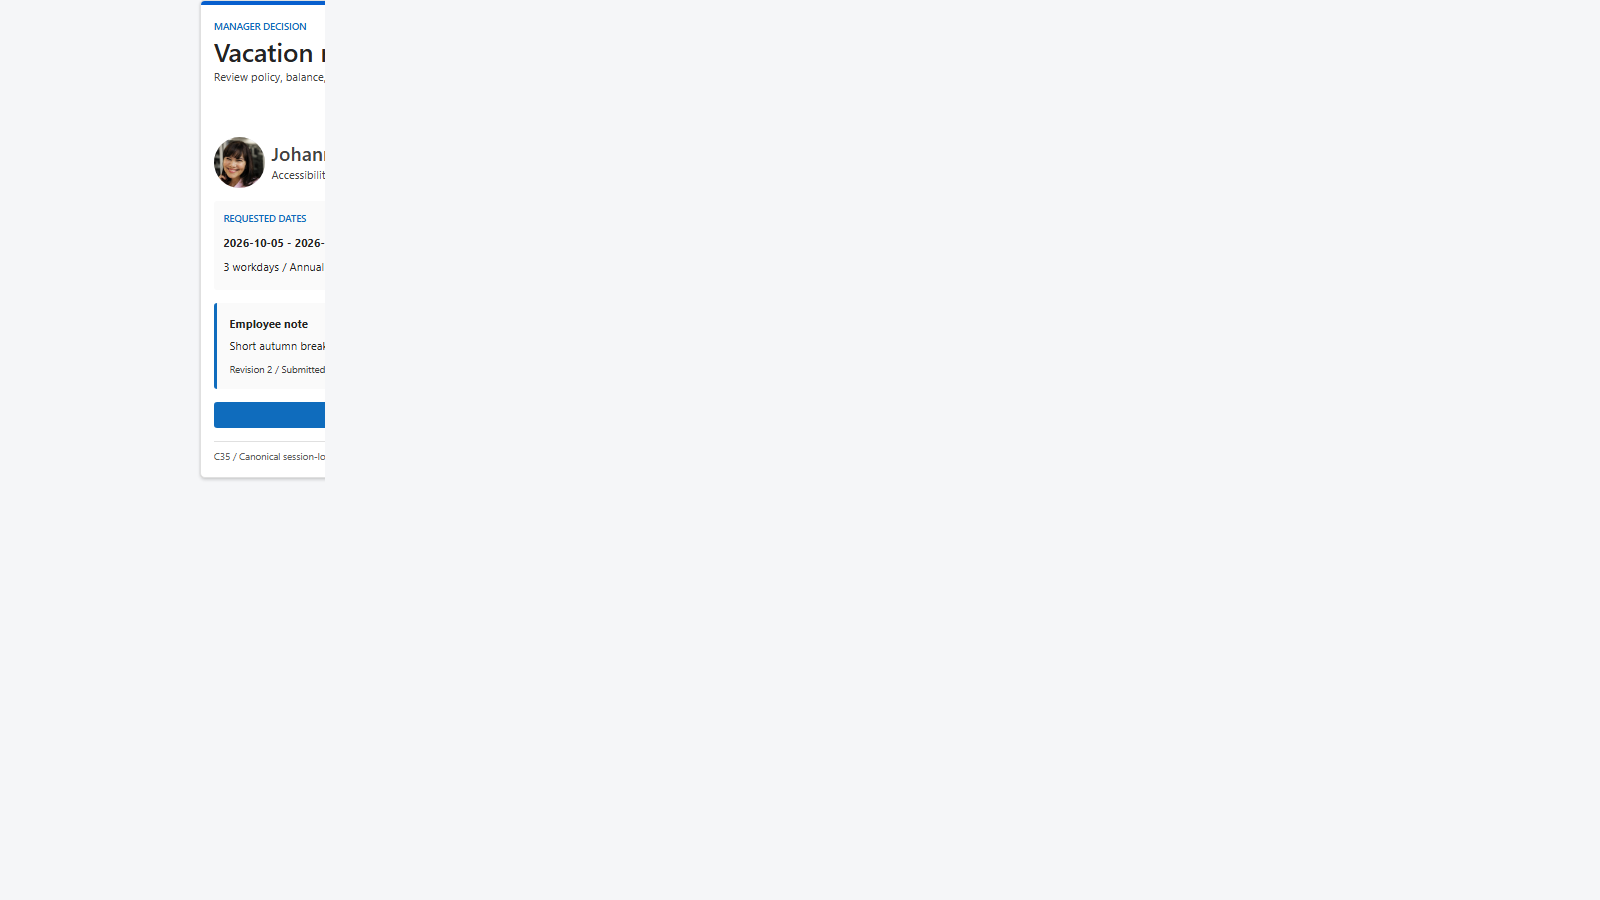
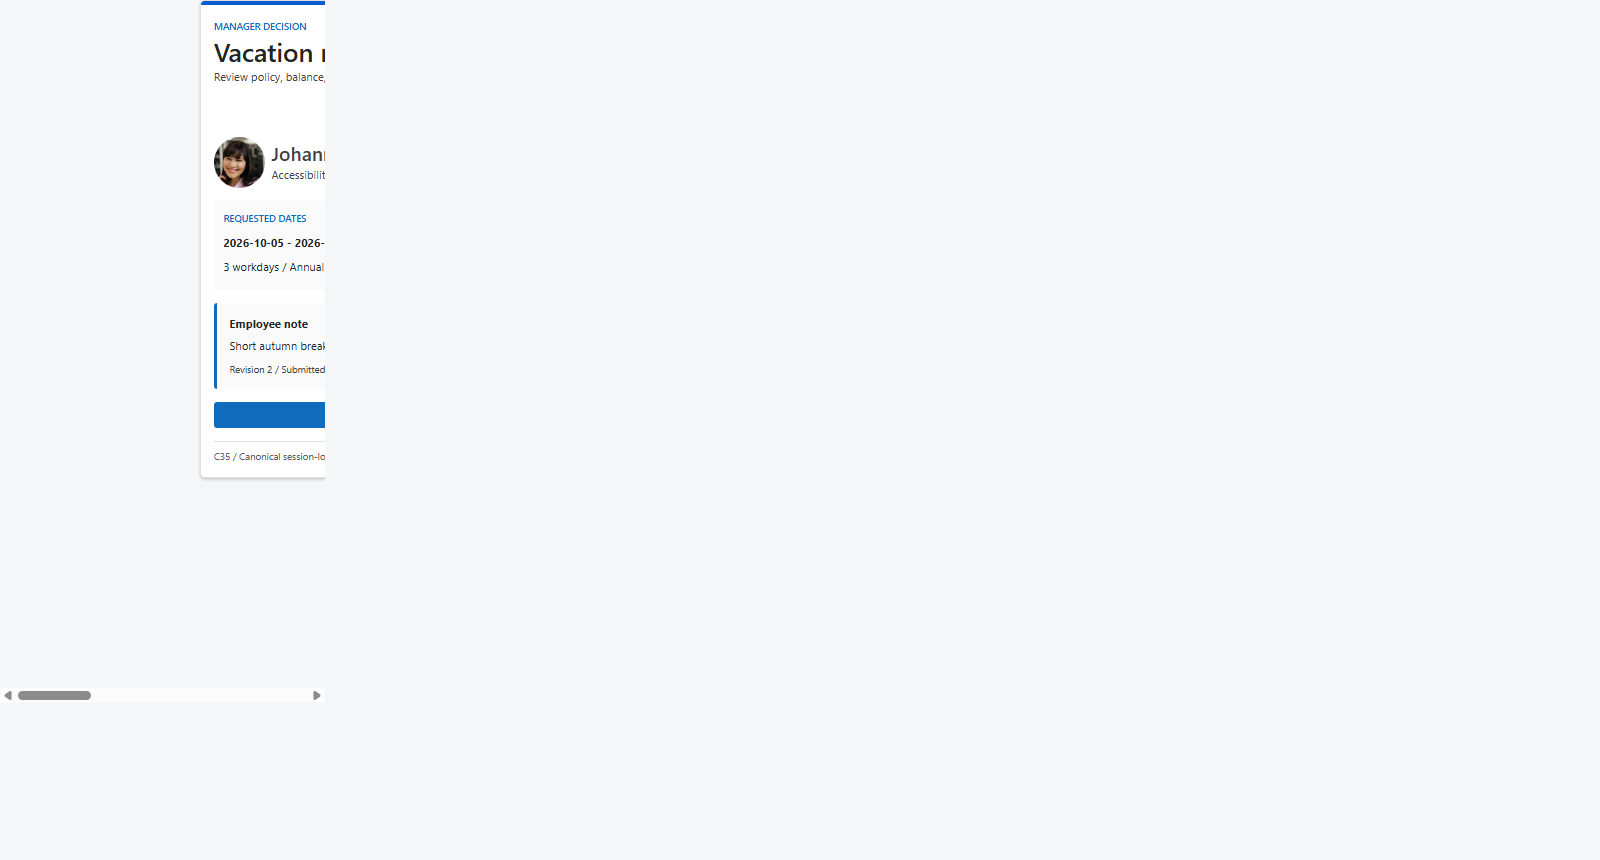
Recapture complete Zava One publication screenshots

Changed region(s): [[0.125, 0.1512, 0.2188, 0.5442], [0.125, 0.0, 0.2188, 0.0907], [0.0, 0.786, 0.0625, 0.8163]]

diff --git a/samples/zava-one-hub/assets/publication-screenshots.md b/samples/zava-one-hub/assets/publication-screenshots.md
@@ -1,28 +1,31 @@
 # Publication screenshot audit
 
-All publication images are current 1600x900 light-theme captures from the local UX review harness.
-They complement the 39-state engineering gallery under `ux-review/evidence/all-experiences`.
+All publication images are current light-theme, complete-content captures from the local UX review
+harness. Focused experiences end at their rendered footer, and workspace captures expand the internal
+scroll region to include every module. They complement the 39-state engineering gallery under
+`ux-review/evidence/all-experiences`.
 
 | Order | File | State proved |
 | ---: | --- | --- |
-| 100 | [preview.png](./preview.png) | Combined workspace, Company tab, desktop first viewport |
-| 101 | [screenshot-personal.png](./screenshot-personal.png) | Combined workspace, Personal tab, desktop first viewport |
-| 102 | [screenshot-company-news.png](./screenshot-company-news.png) | Editorial Company News composition and next-section hint |
-| 103 | [screenshot-recognition-compose.png](./screenshot-recognition-compose.png) | Praise recipient, message, value, and audience composer |
-| 104 | [screenshot-sales-performance.png](./screenshot-sales-performance.png) | EMEA chart, target variance, and exact-value table |
-| 105 | [screenshot-office-map.png](./screenshot-office-map.png) | Global office map, equivalent list, and selected detail |
-| 106 | [screenshot-vacation-approvals.png](./screenshot-vacation-approvals.png) | Four-request reset baseline before a decision |
-| 107 | [screenshot-vacation-detail.png](./screenshot-vacation-detail.png) | Dates, balance impact, coverage, and employee note |
-| 108 | [screenshot-vacation-decision.png](./screenshot-vacation-decision.png) | Explicit decision review before confirmation |
-| 109 | [screenshot-vacation-receipt.png](./screenshot-vacation-receipt.png) | Session-only simulated approval receipt |
-| 110 | [screenshot-vacation-updated-list.png](./screenshot-vacation-updated-list.png) | Three pending and three processed after approval |
-| 111 | [screenshot-capability-explorer.png](./screenshot-capability-explorer.png) | Searchable 35-capability explorer and safe prompt preview |
+| 100 | [preview.png](./preview.png) | Searchable 35-capability explorer and safe prompt preview |
+| 101 | [screenshot-company-workspace.png](./screenshot-company-workspace.png) | Complete Combined workspace, Company tab, all modules |
+| 102 | [screenshot-personal.png](./screenshot-personal.png) | Complete Combined workspace, Personal tab, all modules |
+| 103 | [screenshot-company-news.png](./screenshot-company-news.png) | Complete Editorial Company News composition |
+| 104 | [screenshot-recognition-compose.png](./screenshot-recognition-compose.png) | Praise recipient, message, value, and audience composer |
+| 105 | [screenshot-sales-performance.png](./screenshot-sales-performance.png) | EMEA chart, target variance, and exact-value table |
+| 106 | [screenshot-office-map.png](./screenshot-office-map.png) | Global office map, equivalent list, and selected detail |
+| 107 | [screenshot-vacation-approvals.png](./screenshot-vacation-approvals.png) | Four-request reset baseline before a decision |
+| 108 | [screenshot-vacation-detail.png](./screenshot-vacation-detail.png) | Dates, balance impact, coverage, and employee note |
+| 109 | [screenshot-vacation-decision.png](./screenshot-vacation-decision.png) | Explicit decision review before confirmation |
+| 110 | [screenshot-vacation-receipt.png](./screenshot-vacation-receipt.png) | Session-only simulated approval receipt |
+| 111 | [screenshot-vacation-updated-list.png](./screenshot-vacation-updated-list.png) | Three pending and three processed after approval |
 
 ## Review result
 
 - No image contains a stale layout or placeholder scaffold.
-- Primary controls and labels fit inside every frame.
+- Primary controls, labels, and source footers fit inside every frame.
 - Workspace columns are not horizontally clipped.
+- Complete Company and Personal workspace captures include every configured module.
 - C35 workflow states are independently readable and ordered.
 - Images show fixture labels where the experience renders them.
 

diff --git a/samples/zava-one-hub/README.md b/samples/zava-one-hub/README.md
@@ -26,7 +26,7 @@ The same shared React capability powers:
 - the exact route inside Copilot full screen; and
 - one of three composed SharePoint/Teams workspace experiences.
 
-![Zava One Company workspace](./assets/preview.png)
+![Explore Zava One capability explorer](./assets/preview.png)
 
 > **Current status:** the first-submission candidate is locally validated with 25 passing tests, 39
 > settled experience screenshots, required gallery metadata, and a committed production SPPKG.
@@ -102,7 +102,7 @@ hashes are in
 
 | Company workspace | Personal workspace |
 | --- | --- |
-| [![Combined Company workspace](./assets/preview.png)](./assets/preview.png) | [![Combined Personal workspace](./assets/screenshot-personal.png)](./assets/screenshot-personal.png) |
+| [Complete Company workspace](./assets/screenshot-company-workspace.png) | [Complete Personal workspace](./assets/screenshot-personal.png) |
 
 | Company News | Praise composer |
 | --- | --- |
@@ -124,7 +124,7 @@ hashes are in
 
 | Updated queue | Capability explorer |
 | --- | --- |
-| [![Updated vacation queue](./assets/screenshot-vacation-updated-list.png)](./assets/screenshot-vacation-updated-list.png) | [![Capability explorer](./assets/screenshot-capability-explorer.png)](./assets/screenshot-capability-explorer.png) |
+| [![Updated vacation queue](./assets/screenshot-vacation-updated-list.png)](./assets/screenshot-vacation-updated-list.png) | [![Capability explorer](./assets/preview.png)](./assets/preview.png) |
 
 The ordered publication inventory and crop review are in
 [`assets/publication-screenshots.md`](./assets/publication-screenshots.md). The four full workspace
@@ -233,7 +233,7 @@ embedded module so keynote rendering remains offline.
 | Complete screenshot gallery | 39 PNGs |
 | Bundled media | 28 provenance-checked assets |
 | Production package | `6,357,899` bytes / 169 entries |
-| Publication gallery | `assets/sample.json` / 12 reviewed 1600x900 PNGs |
+| Publication gallery | `assets/sample.json` / 12 reviewed complete-content PNGs |
 
 See [`phase-6-matrix.json`](./ux-review/evidence/phase-6-matrix.json),
 [`g0-bootstrap.md`](./ux-review/evidence/g0-bootstrap.md), and

diff --git a/samples/zava-one-hub/todo.md b/samples/zava-one-hub/todo.md
@@ -609,8 +609,8 @@ and an immediate update to this file. Tenant-only checks remain open with one pr
 - [x] Assert feature web-part manifests are SharePoint-only, exactly three web parts are Teams-enabled,
   each owns one unique workspace mode, and all workspace/Copilot full-screen roots resolve to the same
   `ZavaOneWorkspace` implementation.
-- [x] Capture C35 list, detail, decision, receipt, and updated-list publication screenshots with real
-  bundled persona portraits at the 1600x900 web-part checkpoint.
+- [x] Capture complete-content C35 list, detail, decision, receipt, and updated-list publication
+  screenshots with real bundled persona portraits at the desktop web-part checkpoint.
 - [ ] Extend the complete C35 state sequence to inline, Teams workspace, Copilot full-screen, narrow,
   and dark authenticated-host checkpoints.
 - [x] Validate the generated plugin/package and save local cross-host evidence; keep tenant-only behavior open
@@ -921,8 +921,8 @@ These items are not part of the offline keynote package and must not block its l
   screenshots, demos, package link, version history, authors, and references.
 - [x] Author `assets/sample.json` from actual metadata and validated PNGs; preserve gallery ordering and
   link only to real assets.
-- [x] Recapture and review 12 current-implementation publication images at 1600x900 without clipped
-  workspace columns or stale layouts.
+- [x] Recapture and review 12 current-implementation publication images as full-page/full-workspace
+  evidence without clipped modules, controls, or stale layouts.
 - [x] Add architecture and data-flow diagrams, catalog/routing documentation, host matrix, privacy and
   accessibility notes, media provenance, test commands, and release evidence links.
 - [ ] Reconcile design documents only where implementation decisions legitimately supersede proposals;

diff --git a/samples/zava-one-hub/demos/business-journey.md b/samples/zava-one-hub/demos/business-journey.md
@@ -12,7 +12,7 @@ Open the Combined workspace on the Company tab.
 - Explain that Company and Personal layouts have independent session-only order and visibility.
 - Use **Edit layout** or **Personalize** only if there is time; do not imply cross-device persistence.
 
-Checkpoint: [Company workspace](../assets/preview.png).
+Checkpoint: [Company workspace](../assets/screenshot-company-workspace.png).
 
 ## 2. Focused company answer
 
@@ -94,6 +94,6 @@ Select **Explore Zava One**.
 - Search, filter, and copy a prompt without mutating business state.
 - Close on 35 paired capabilities, three composed workspaces, and one shared implementation model.
 
-Checkpoint: [Capability explorer](../assets/screenshot-capability-explorer.png).
+Checkpoint: [Capability explorer](../assets/preview.png).
 
 Use [Demo operations](./demo-operations.md) to reset before the next run.

diff --git a/samples/zava-one-hub/docs/release-readiness.md b/samples/zava-one-hub/docs/release-readiness.md
@@ -57,7 +57,7 @@ sequenceDiagram
 
 Locally validated behavior includes semantic controls, visible focus, keyboard-capable layout movement,
 text alternatives for charts/maps, light/dark token use, and responsive component layouts. Publication
-screenshots were reviewed at 1600x900.
+screenshots were reviewed as complete full-page/full-workspace captures with at least 1600px width.
 
 This is not an accessibility certification. Authenticated host testing remains required for Narrator or
 JAWS, 200% zoom, forced colors, reduced motion, iframe focus, Teams chrome, and modern SharePoint page

diff --git a/samples/zava-one-hub/demos/keynote-90-seconds.md b/samples/zava-one-hub/demos/keynote-90-seconds.md
@@ -33,7 +33,7 @@ and session-local.
 - [Simulated receipt](../assets/screenshot-vacation-receipt.png)
 - [Updated queue](../assets/screenshot-vacation-updated-list.png)
 - [Office map](../assets/screenshot-office-map.png)
-- [Capability explorer](../assets/screenshot-capability-explorer.png)
+- [Capability explorer](../assets/preview.png)
 
 ## Offline fallback
 
